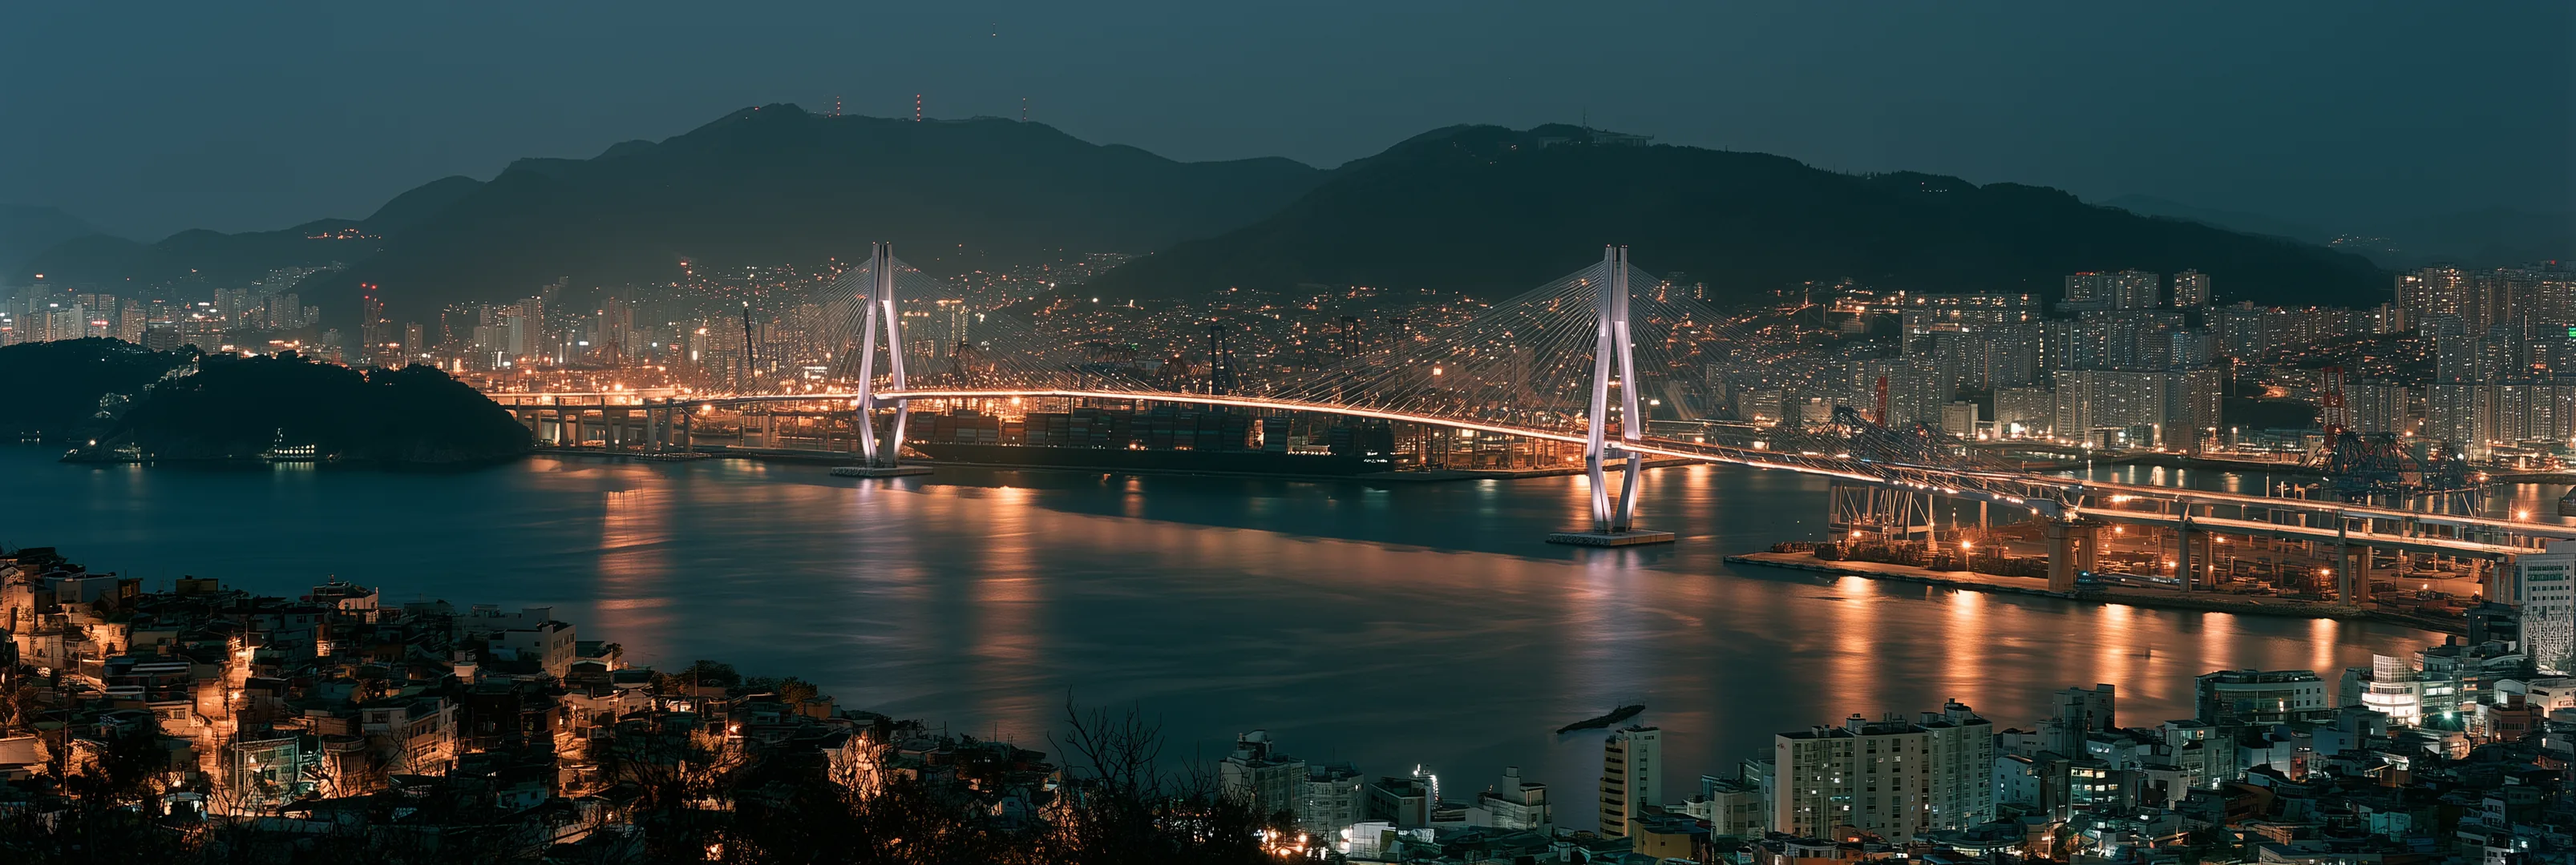
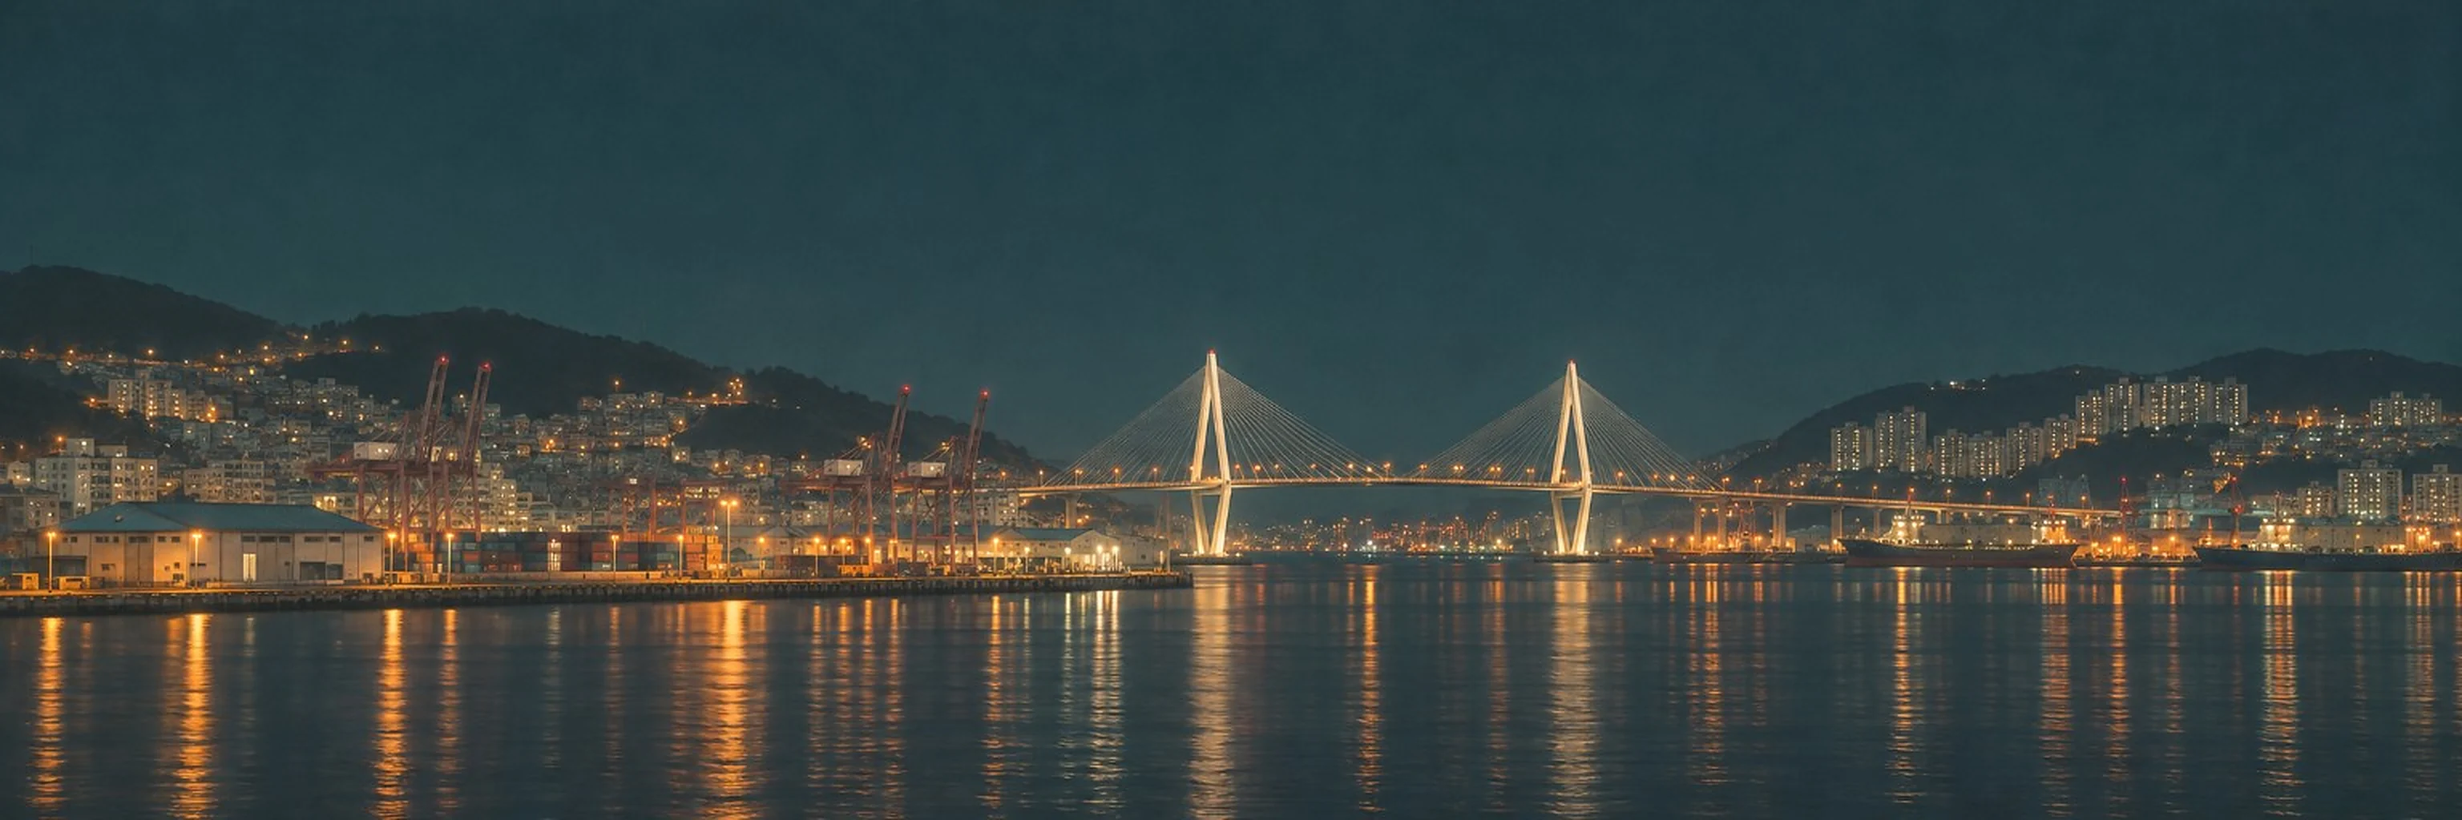
새 풍경 7장(부산항·북구·구포·밀양·청도·왜관·한강), 엽서 링크를 홈페이지 주소로 수정, 확인용 버튼은 ?dev 에서만
Claude-Session: https://claude.ai/code/session_015fNbvzvz4xuREQtMjmLhTY

diff --git a/index.html b/index.html
@@ -78,6 +78,7 @@ button{font:inherit;color:inherit;background:none;border:0;cursor:pointer;paddin
 #speed{position:absolute;left:12px;bottom:12px;z-index:4;font-size:10.5px;letter-spacing:.04em;padding:5px 9px;border-radius:10px;background:rgba(15,12,9,.6);color:rgba(239,230,214,.75);transition:opacity .4s}
 #jumpBtn{position:absolute;left:calc(12px + 86px);bottom:12px;z-index:4;font-size:10.5px;letter-spacing:.04em;padding:5px 9px;border-radius:10px;background:rgba(15,12,9,.6);color:rgba(239,230,214,.75)}
 #app.gaze #jumpBtn{opacity:0!important;pointer-events:none}
+body:not(.dev) #speed,body:not(.dev) #jumpBtn{display:none!important}
 #jump{position:fixed;left:0;right:0;bottom:0;z-index:60;background:rgba(20,17,14,.96);color:#efe6d6;padding:16px 16px calc(18px + env(safe-area-inset-bottom));border-radius:16px 16px 0 0;transform:translateY(105%);transition:transform .35s ease;max-height:70vh;overflow:auto;font-size:13px}
 #jump.on{transform:none}#jump h4{margin:2px 0 10px;font-weight:600;font-size:14px;letter-spacing:.02em}#jump .sub{opacity:.55;font-size:11.5px;margin:12px 0 6px}
 #jump .chips{display:flex;flex-wrap:wrap;gap:7px}#jump button.ch{padding:8px 11px;border-radius:999px;background:#2c2620;color:#efe6d6;font-size:12.5px;border:1px solid rgba(239,230,214,.12)}#jump button.ch.now{background:#c99a7c;color:#1d1813}
@@ -494,7 +495,7 @@ function drawPhoto(c,S,ph,pxm){
   if(S.light>.5){c.fillStyle='rgba(255,240,220,'+((S.light-.5)*.25)+')';c.fillRect(0,0,W,H)}
   if(ph.dusk&&S.light<.55){c.fillStyle='rgba(6,12,28,'+Math.min(.5,(.55-S.light)*1.1)+')';c.fillRect(0,0,W,H)}
 }
-const GRASS={busan:1,country:1,kr01:1,kr05:1,kr06:1,kr10:1,kr11:1,kr15:1,kr16:1};
+const GRASS={country:1,kr05:1,kr06:1,kr10:1,kr11:1,kr15:1,kr16:1};
 function drawFG(c,S,pxm){const ph=PHOTO.fg;if(!ph||!ph.ready||!GRASS[B[S.bk].photo]||BRIDGES.some(q=>S.km>q[0]&&S.km<q[1]))return;
   const th=H*.46,sc=th/ph.h,tw=ph.w*sc,off=((S.vo*pxm*1.5)%tw+tw)%tw;
   const bg=c.createLinearGradient(0,H*.7,0,H*.84);bg.addColorStop(0,'rgba(13,14,11,0)');bg.addColorStop(1,'rgba(13,14,11,1)');c.fillStyle=bg;c.fillRect(0,H*.7,W,H*.3);
@@ -859,7 +860,7 @@ function sceneState(vt,el,vo,now){
   return {...S,vo,vs:S.v*18,t:now/1000,elev:sun.elev,light:clamp((sun.elev+7)/15,.06,1)*(cloudy&&sun.elev>0?.85:1),sky:skyCols(sun.elev,cloudy),w,season,lat,bk,lm:stopped?ST[S.i].lm:'',date:d};
 }
 // ───────── 출발편 (매일 21:00 KST) ─────────
-const KST=9*HMS, ART_URL='https://claude.ai/artifact/Ck8qehkhjEq8qCWdCmKzuF';
+const KST=9*HMS, ART_URL=location.origin+location.pathname;
 function depTimes(now){const k=new Date(now+KST),base=Date.UTC(k.getUTCFullYear(),k.getUTCMonth(),k.getUTCDate(),12,0,0);
   return {next:base>now?base:base+864e5, prev:base<=now?base:base-864e5}}
 const pd=n=>String(n).padStart(2,'0');
@@ -1298,6 +1299,7 @@ const reset=()=>{ticket=null;try{localStorage.removeItem(KEY)}catch(e){}openIssu
 $('btnReset').onclick=()=>{show('mTicket',false);reset()};
 $('btnAgain').onclick=()=>{show('mArrive',false);reset()};
 $('btnStay').onclick=()=>show('mArrive',false);
+if(/[?&]dev\b/.test(location.search))document.body.classList.add('dev');
 $('speed').onclick=()=>setSpeed(SPEEDS[(SPEEDS.indexOf(speed)+1)%SPEEDS.length]);
 // ───────── 구간 이동 (확인용): 원하는 장면으로 시간을 바로 옮김 ─────────
 (function(){const box=document.createElement('div');box.id='jump';document.getElementById('app').appendChild(box);
